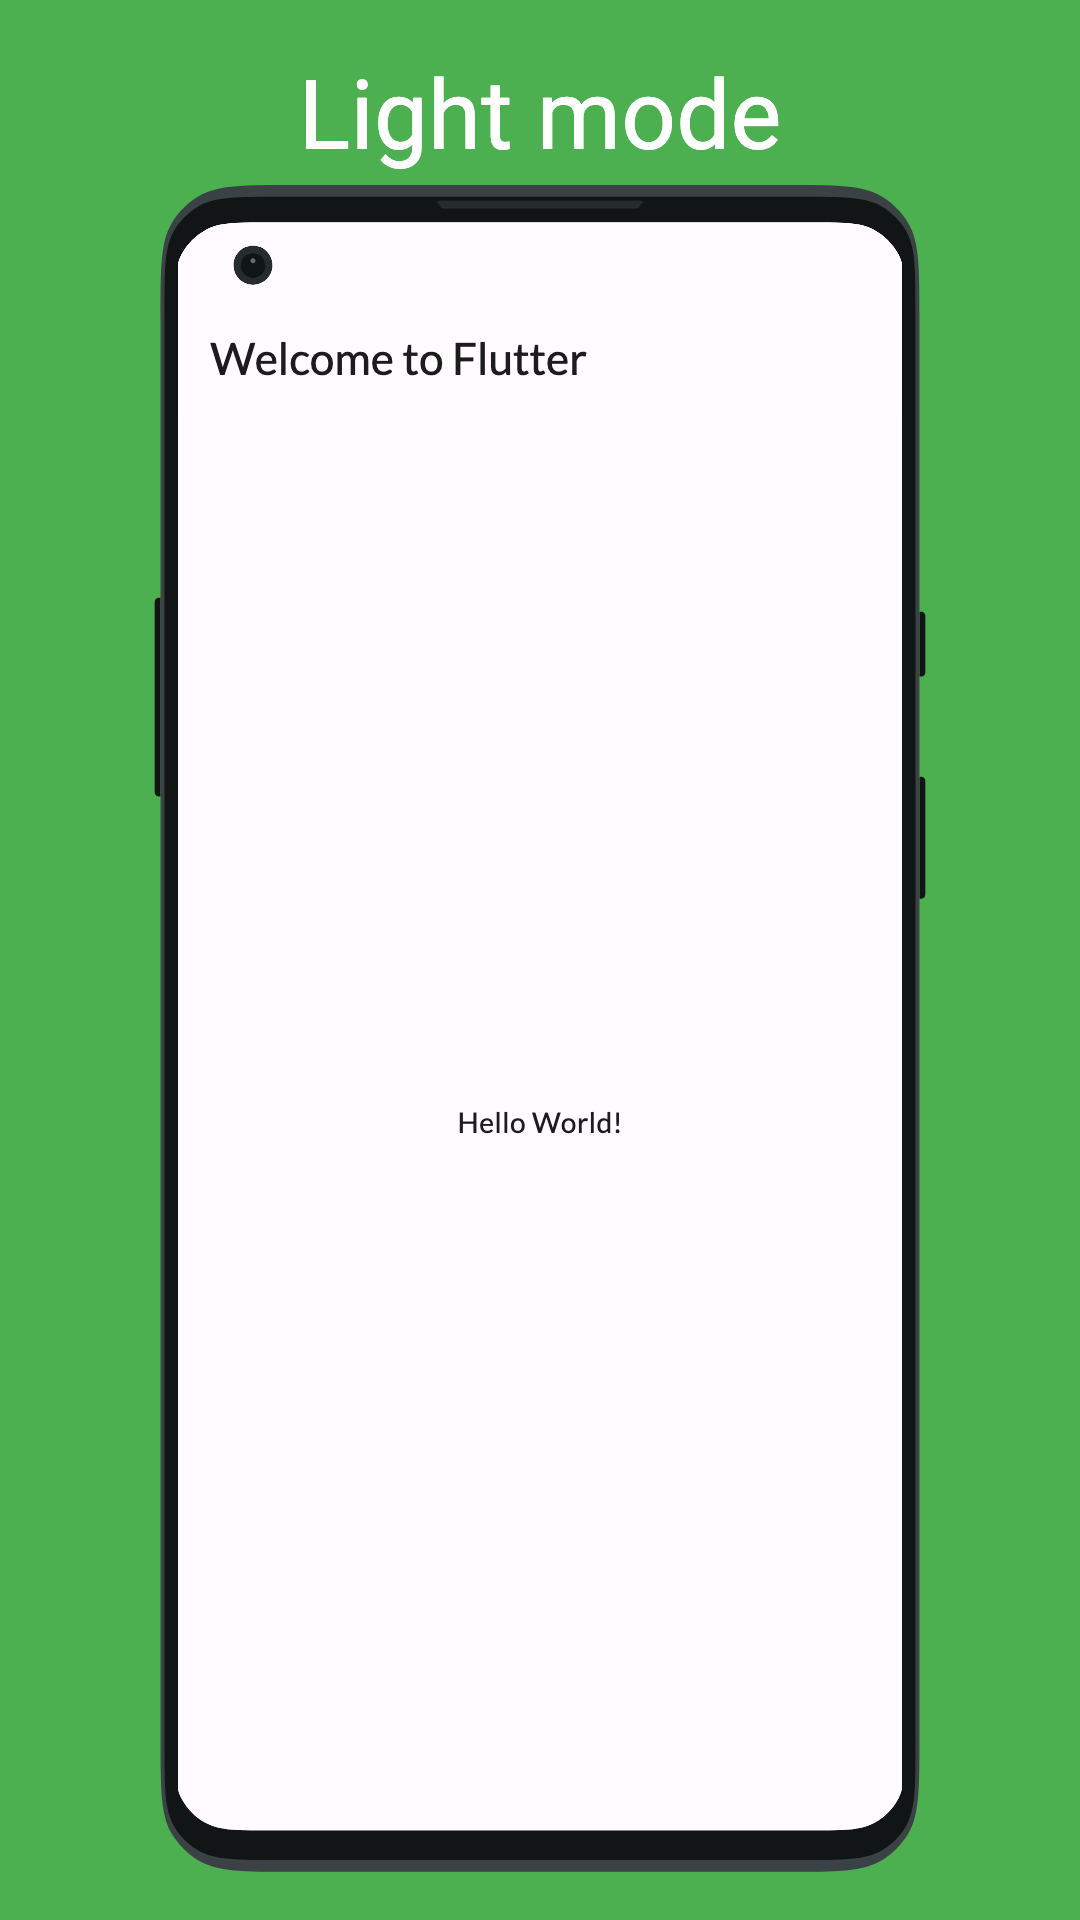
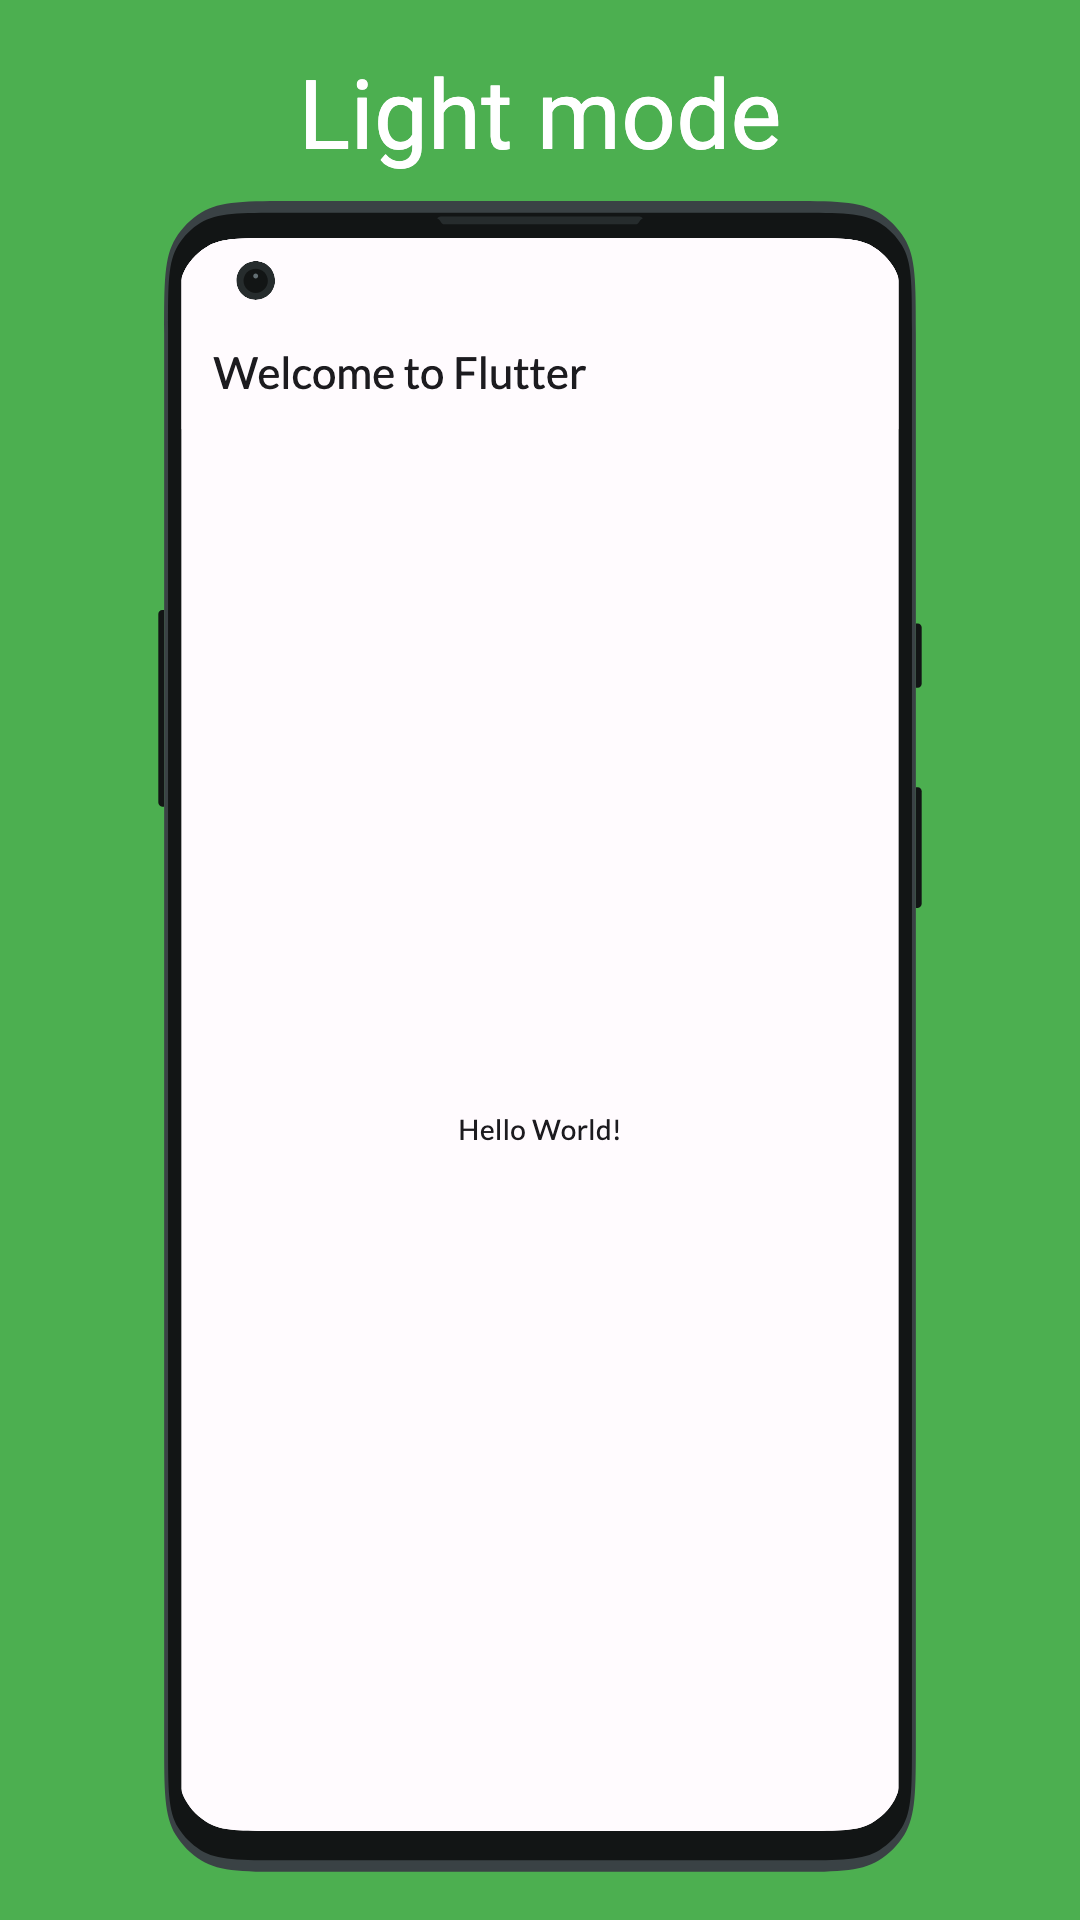
Improve spacing text & phone

Changed region(s): [[0.1222, 0.0938, 0.8556, 0.9688], [0.4278, 0.5625, 0.5806, 0.5938]]

diff --git a/lib/src/generate_screenshots.dart b/lib/src/generate_screenshots.dart
@@ -104,11 +104,13 @@ Widget createScreenshot({
         mainAxisSize: MainAxisSize.max,
         mainAxisAlignment: MainAxisAlignment.spaceEvenly,
         children: [
-          if (text != null)
+          if (text != null) ...[
             Text(
               text,
               style: textStyle,
             ),
+            const SizedBox(height: 16),
+          ],
           Expanded(
             child: DeviceFrame(
               device: phoneFrameDevice,
